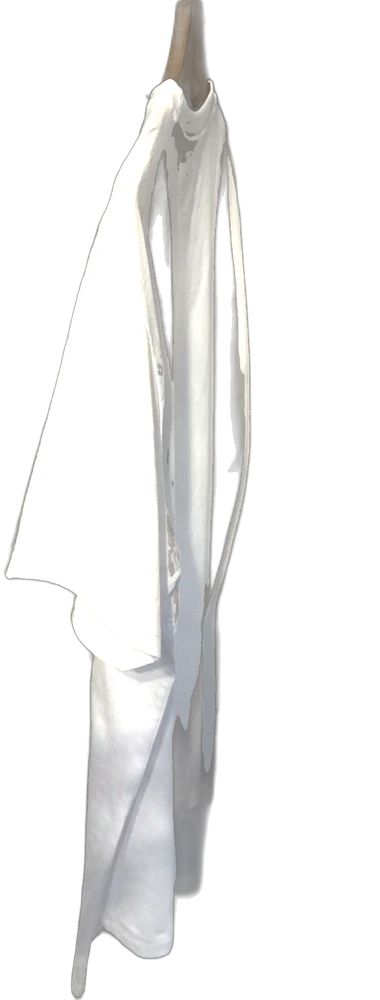
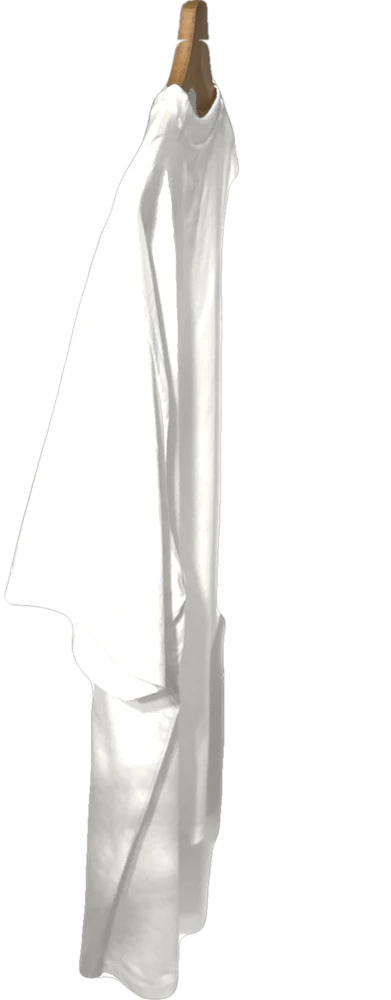
Perchero: nuevo orden, camiseta blanca de lado limpia y giro con el dedo con eventos táctiles
Claude-Session: https://claude.ai/code/session_01W5ky4QjpNWCBcPcfCA4882

diff --git a/src/components/RackReact.tsx b/src/components/RackReact.tsx
@@ -275,50 +275,84 @@ export default function RackReact({ products: initial, title = "El Perchero", pr
   }
 
   // ---- Móvil: al pasar el dedo por encima, la prenda que toca gira y se ve de frente ----
-  const touchIdx = useRef<number | null>(null);
-  function touchTurn(e: React.PointerEvent) {
-    if (e.pointerType !== "touch") return;
-    // la prenda cuyo centro está más cerca del dedo (se solapan un poco, así cada una tiene su zona)
-    let i: number | null = null;
-    let best = Infinity;
-    els.current.forEach((el, k) => {
-      if (!el) return;
-      const r = el.getBoundingClientRect();
-      if (e.clientY < r.top - 20 || e.clientY > r.bottom + 20) return;
-      const d = Math.abs(r.left + r.width / 2 - e.clientX);
-      if (d < best && d < r.width / 2 + 24) {
-        best = d;
-        i = k;
-      }
-    });
-    if (i === touchIdx.current) return;
-    if (touchIdx.current != null) {
-      const prev = bodies.current[touchIdx.current];
-      if (prev) prev.releaseAt = performance.now() + 250;
-    }
-    touchIdx.current = i;
-    if (i != null && hasBack(i)) {
+  // Eventos táctiles del documento (pasivos): siguen llegando aunque la página se desplace,
+  // a diferencia de los pointer events, que se cancelan en cuanto el navegador hace scroll.
+  useEffect(() => {
+    if (status !== "ready") return;
+    let cur: number | null = null;
+    let cand: number | null = null;
+    let candAt = 0;
+    let endTimer = 0;
+    const release = (i: number | null, ms: number) => {
+      if (i == null) return;
       const b = bodies.current[i];
-      if (b) {
-        if (b.target !== 180 && !prefersReducedMotion()) b.vSwing += 30;
-        b.target = 180;
-        b.releaseAt = 0;
+      if (b) b.releaseAt = performance.now() + ms;
+    };
+    const pickAt = (x: number, y: number) => {
+      let best: number | null = null;
+      let dist = Infinity;
+      els.current.forEach((el, k) => {
+        if (!el) return;
+        const r = el.getBoundingClientRect();
+        if (y < r.top - 10 || y > r.bottom + 10) return;
+        const d = Math.abs(r.left + r.width / 2 - x);
+        if (d < dist && d < r.width / 2 + 20) {
+          dist = d;
+          best = k;
+        }
+      });
+      return best;
+    };
+    const onTouch = (e: TouchEvent) => {
+      if (open != null) return;
+      const t = e.touches[0];
+      if (!t) return;
+      window.clearTimeout(endTimer);
+      const i = pickAt(t.clientX, t.clientY);
+      const now = performance.now();
+      if (i !== cand) {
+        cand = i;
+        candAt = now;
       }
-      setHovered(i);
-    }
-    tick();
-  }
-  function touchEnd(e: React.PointerEvent) {
-    if (e.pointerType !== "touch") return;
-    const i = touchIdx.current;
-    touchIdx.current = null;
-    if (i != null) {
-      const b = bodies.current[i];
-      if (b) b.releaseAt = performance.now() + HOLD_MS * 2;
-      setTimeout(() => setHovered((h) => (h === i ? null : h)), HOLD_MS * 2);
+      // pequeño margen para que no parpadee al cruzar el borde entre dos prendas
+      if (cand === cur || (now - candAt < 70 && e.type === "touchmove")) return;
+      release(cur, 200);
+      cur = cand;
+      if (cur != null && hasBack(cur)) {
+        const b = bodies.current[cur];
+        if (b) {
+          if (b.target !== 180 && !prefersReducedMotion()) b.vSwing += 30;
+          b.target = 180;
+          b.releaseAt = 0;
+        }
+      }
+      setHovered(cur);
       tick();
-    }
-  }
+    };
+    const onEnd = () => {
+      if (cur == null) return;
+      const i = cur;
+      release(i, HOLD_MS * 2);
+      tick();
+      endTimer = window.setTimeout(() => {
+        setHovered((h) => (h === i ? null : h));
+        if (cur === i) cur = null;
+        cand = null;
+      }, HOLD_MS * 2);
+    };
+    document.addEventListener("touchstart", onTouch, { passive: true });
+    document.addEventListener("touchmove", onTouch, { passive: true });
+    document.addEventListener("touchend", onEnd, { passive: true });
+    document.addEventListener("touchcancel", onEnd, { passive: true });
+    return () => {
+      document.removeEventListener("touchstart", onTouch);
+      document.removeEventListener("touchmove", onTouch);
+      document.removeEventListener("touchend", onEnd);
+      document.removeEventListener("touchcancel", onEnd);
+      window.clearTimeout(endTimer);
+    };
+    // eslint-disable-next-line react-hooks/exhaustive-deps
+  }, [status, open, products]);
 
   function onGarmentClick(i: number, e: React.MouseEvent<HTMLElement>) {
     const touchUI = window.matchMedia("(hover: none), (pointer: coarse)").matches;
@@ -477,10 +511,7 @@ export default function RackReact({ products: initial, title = "El Perchero", pr
         <div className="rack-scroller" ref={railRef} onScroll={onRailScroll}>
           <div
             className="rack-stage"
-            onPointerMove={(e) => { onStageMove(e); touchTurn(e); }}
-            onPointerDown={touchTurn}
-            onPointerUp={touchEnd}
-            onPointerCancel={touchEnd}
+            onPointerMove={onStageMove}
           >
             <div className="rack-bar" aria-hidden="true">
               <span className="rack-knob" />
